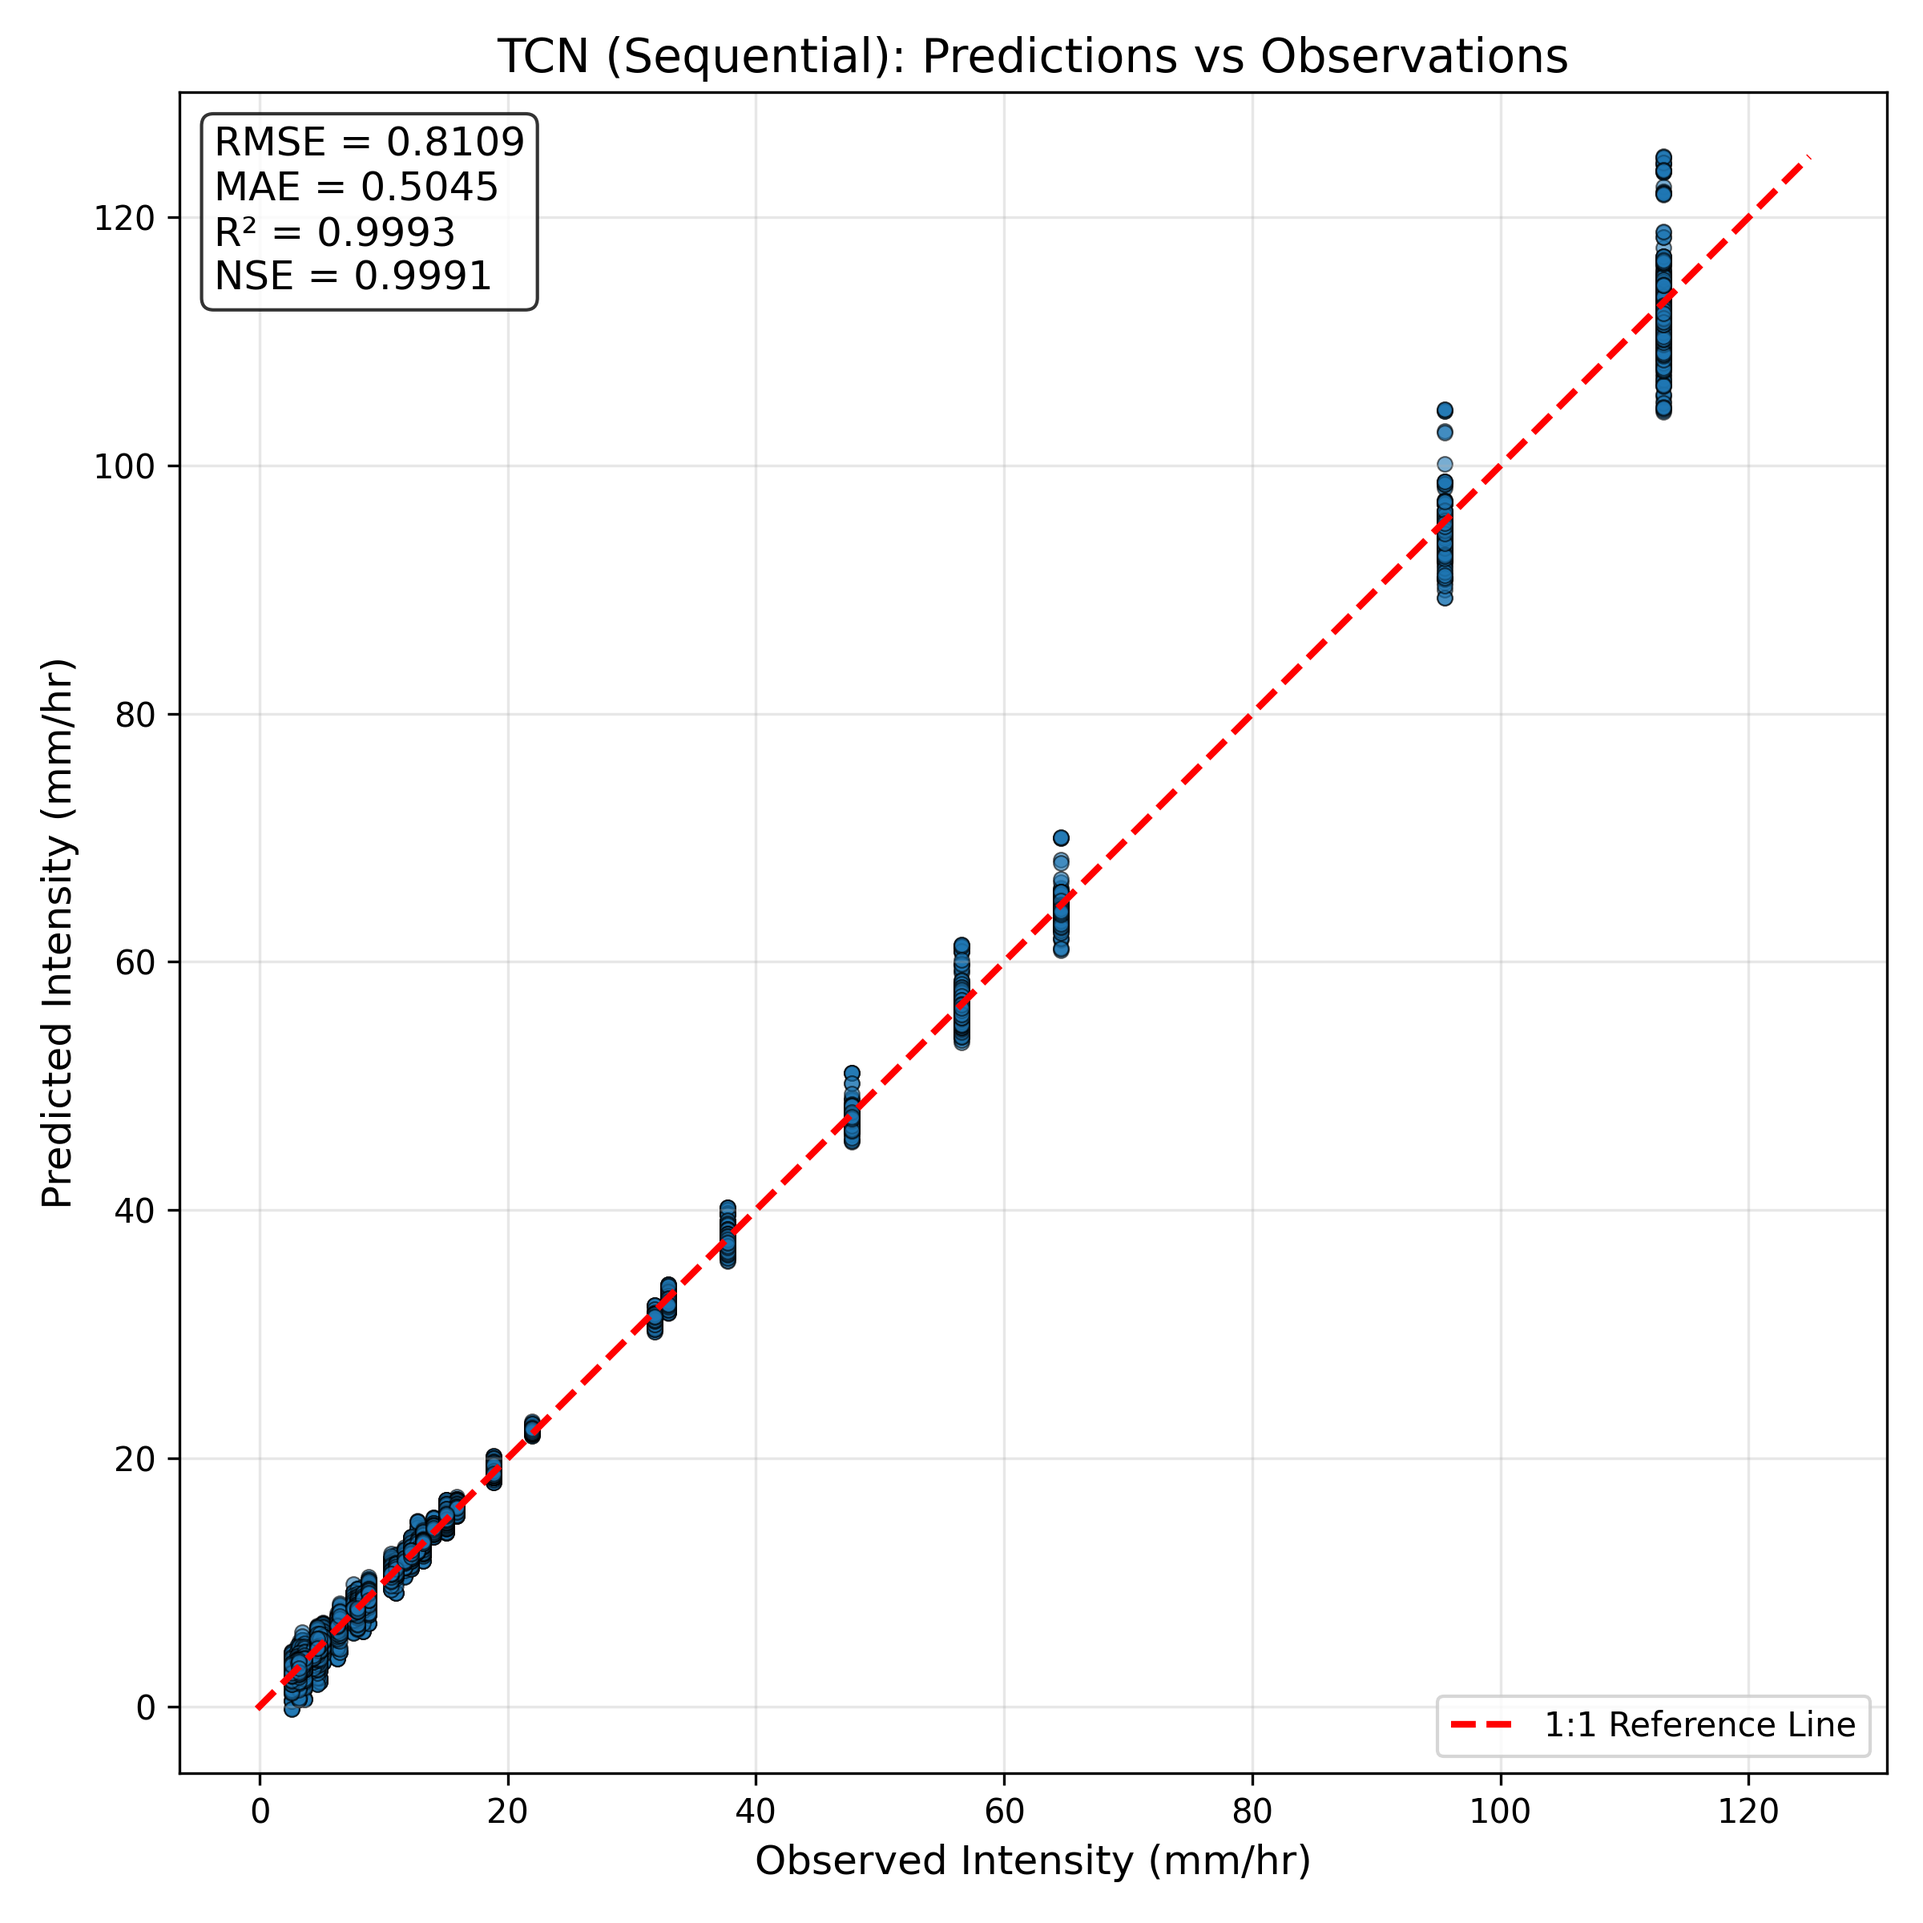
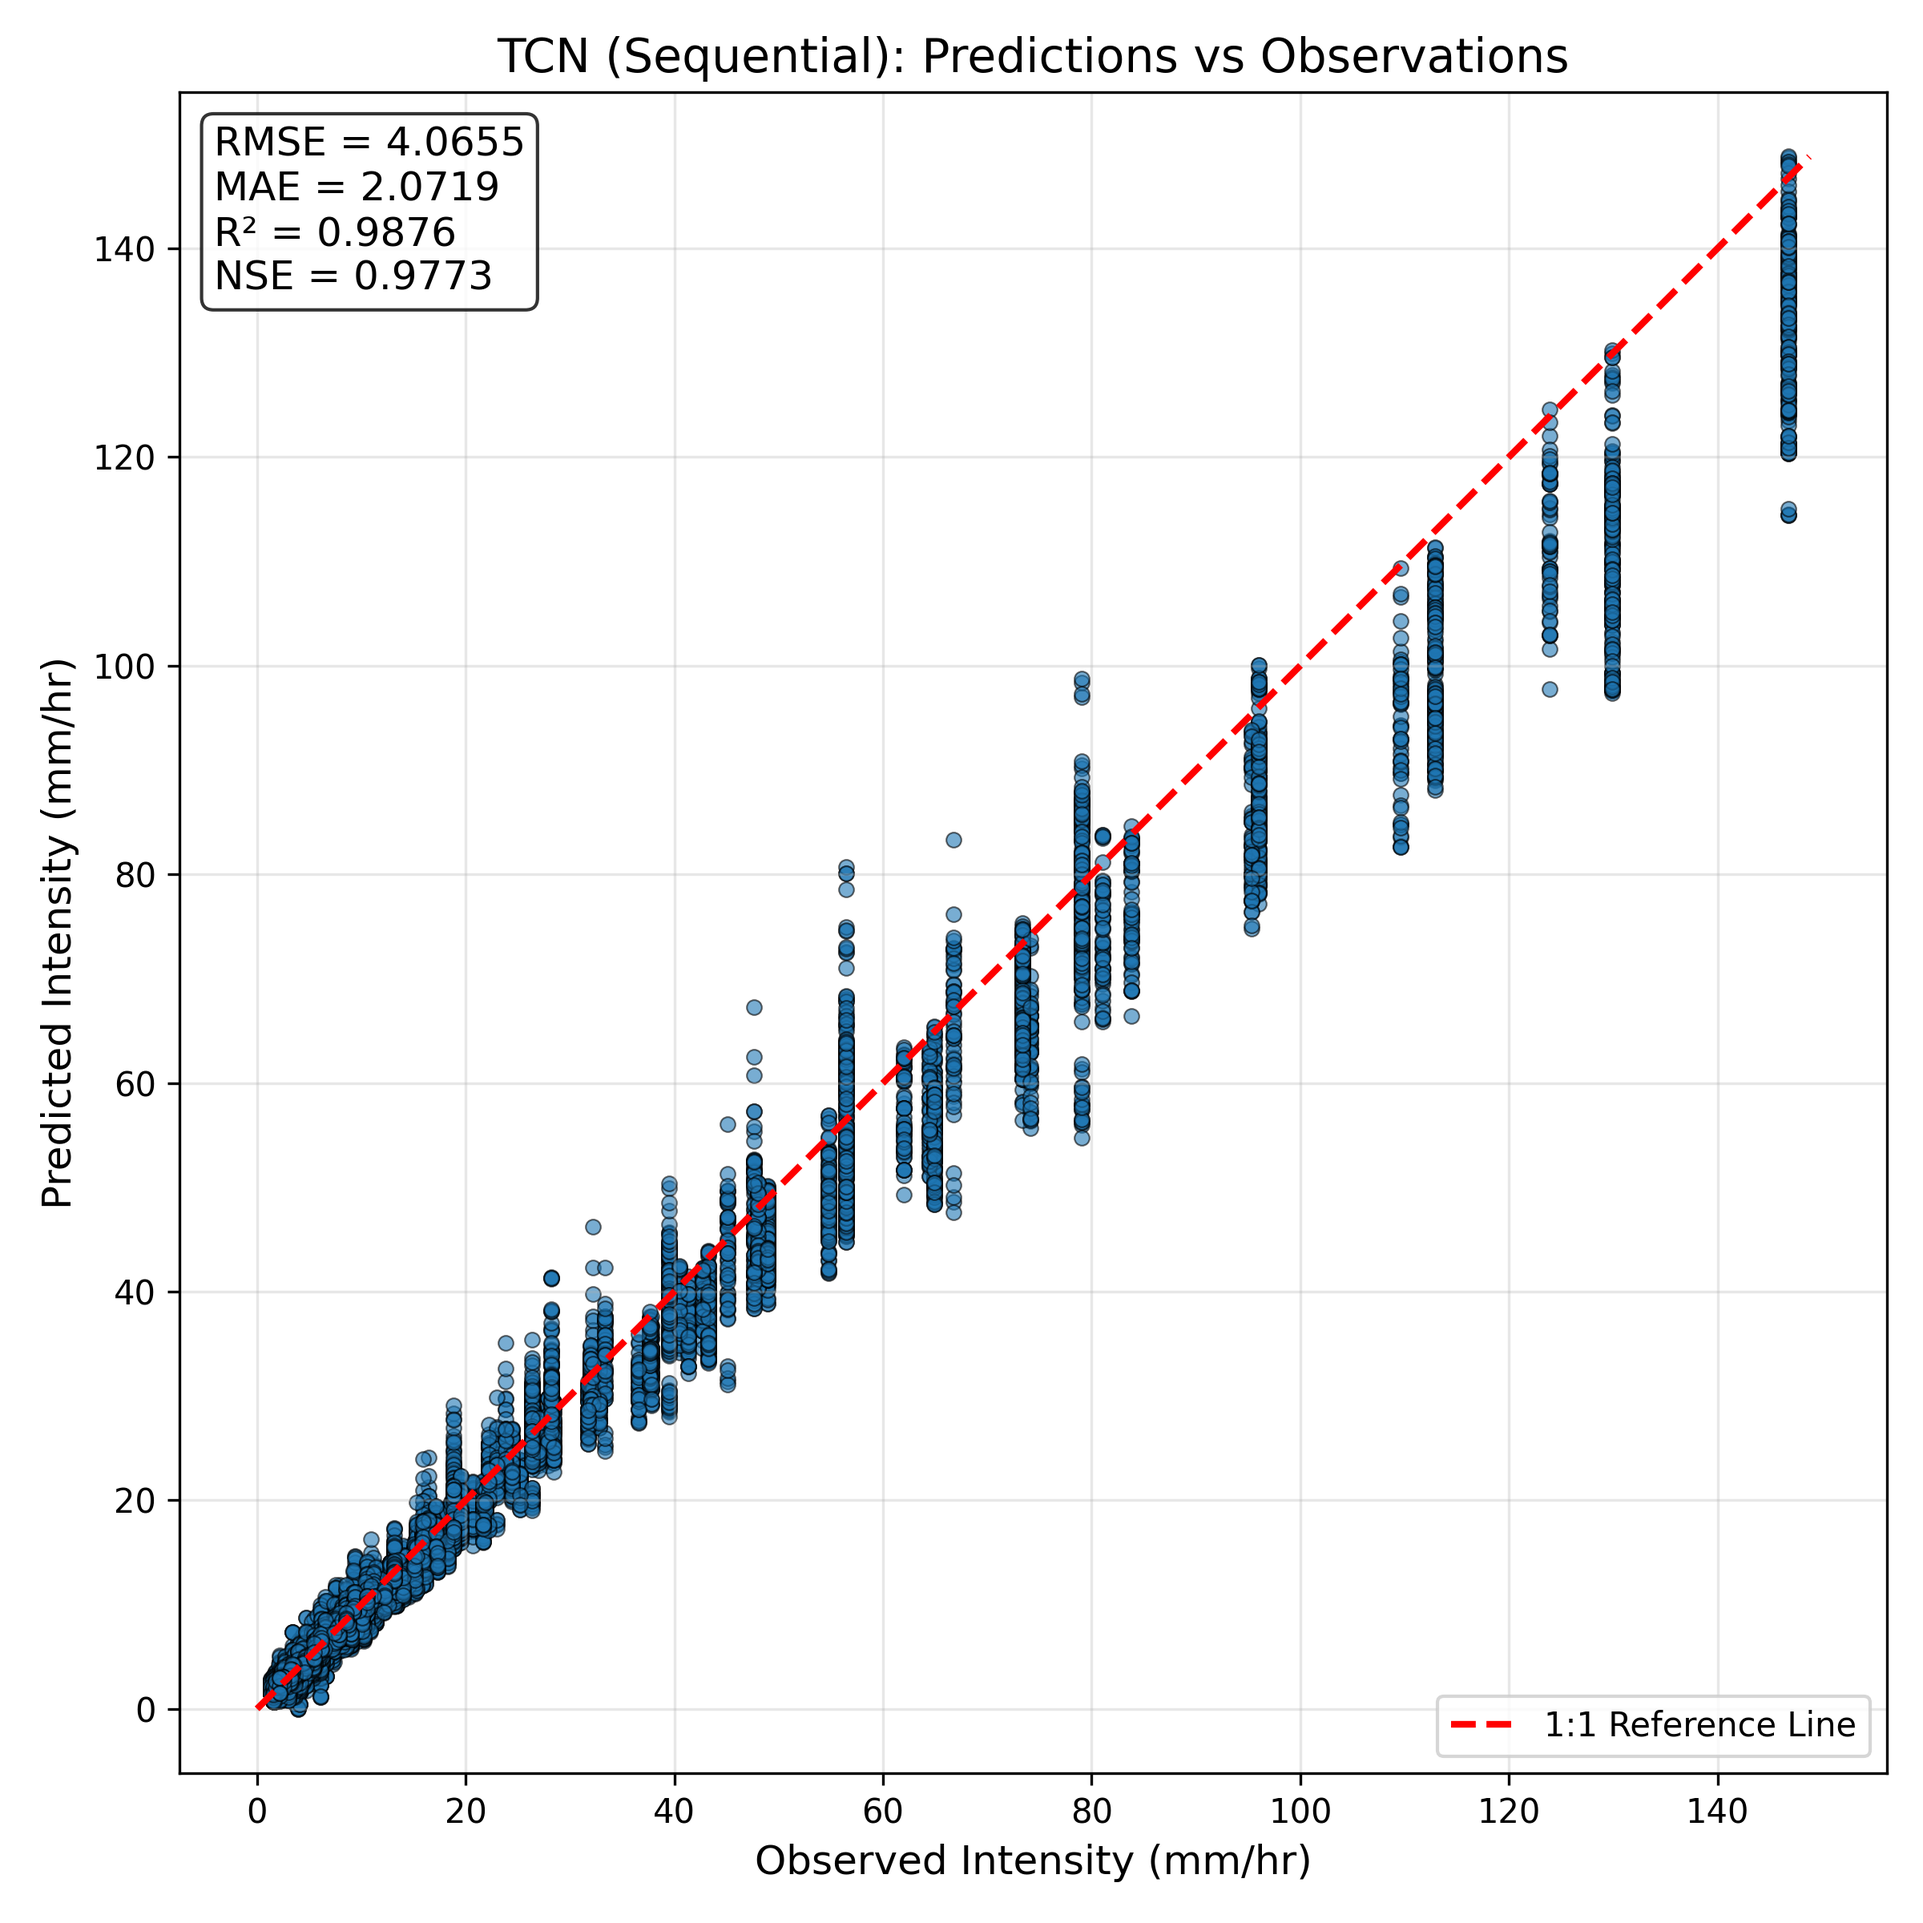
Refactor target generation in SequentialIDFDataset to compute frequency factors instead of absolute intensities, update IDF curve building to accommodate frequency factor predictions, and adjust performance metrics in CSV files accordingly.

diff --git a/ai-training/shared_dataprep_tcn.py b/ai-training/shared_dataprep_tcn.py
@@ -181,11 +181,12 @@ class SequentialIDFDataset(Dataset):
         print(f"✓ Created {len(self.windows):,} windows")
     
     def _generate_targets(self):
-        """Generate empirical return period intensities as targets."""
-        print("Generating targets from empirical return periods...", end=' ')
+        """Generate frequency factors as targets (not absolute intensities)."""
+        print("Generating frequency factor targets...", end=' ')
         
-        # For each duration, compute annual maxima from validation years
-        targets = []
+        # For each duration, compute mean, std, and frequency factors from annual maxima
+        frequency_factors = []
+        self.duration_stats = []  # Store mean and std for later use
         
         for dur_col in self.duration_cols:
             # Get validation data for this duration
@@ -203,6 +204,11 @@ class SequentialIDFDataset(Dataset):
             
             annual_maxima = np.array(annual_maxima)
             
+            # Compute statistics
+            mean_intensity = np.mean(annual_maxima)
+            std_intensity = np.std(annual_maxima)
+            self.duration_stats.append({'mean': mean_intensity, 'std': std_intensity})
+            
             # Rank and compute empirical return periods
             sorted_maxima = np.sort(annual_maxima)[::-1]  # Descending order
             n = len(sorted_maxima)
@@ -213,16 +219,13 @@ class SequentialIDFDataset(Dataset):
             rp_intensities = []
             for rp in self.return_periods:
                 if rp <= empirical_T.max() and rp >= empirical_T.min():
-                    # Interpolate in log-log space for better fit
                     intensity = np.exp(np.interp(np.log(rp), np.log(empirical_T[::-1]), 
                                                   np.log(sorted_maxima[::-1] + 1e-8)))
                 else:
-                    # Extrapolate linearly in log-log space
                     intensity = np.exp(np.interp(np.log(rp), np.log(empirical_T[::-1]), 
                                                   np.log(sorted_maxima[::-1] + 1e-8), 
                                                   left=np.nan, right=np.nan))
                     if np.isnan(intensity):
-                        # Use closest available value
                         if rp < empirical_T.min():
                             intensity = sorted_maxima[-1]
                         else:
@@ -230,40 +233,37 @@ class SequentialIDFDataset(Dataset):
                 
                 rp_intensities.append(intensity)
             
-            targets.append(rp_intensities)
+            # Convert intensities to frequency factors: K = (I - mean) / std
+            K_values = [(I - mean_intensity) / (std_intensity + 1e-8) for I in rp_intensities]
+            frequency_factors.append(K_values)
         
-        # targets is now [13 durations, 6 return periods]
-        self.targets = np.array(targets, dtype=np.float32)  # [13, 6]
+        # targets are now frequency factors [13 durations, 6 return periods]
+        self.targets = np.array(frequency_factors, dtype=np.float32)  # [13, 6]
         
-        # Bin windows by intensity quantiles and scale targets accordingly
-        # Compute max intensity across all durations for each window
+        # Bin windows by intensity quantiles to create variation
         window_max_intensities = np.max(self.windows, axis=(1, 2))  # [N]
         
-        # Create 6 quantile bins (one per return period level)
+        # Create 6 quantile bins
         quantiles = [0, 1/6, 2/6, 3/6, 4/6, 5/6, 1.0]
         intensity_thresholds = np.quantile(window_max_intensities, quantiles)
-        
-        # Assign each window to a bin (0=lowest → 5=highest intensity)
         window_rp_bins = np.digitize(window_max_intensities, intensity_thresholds[1:-1])  # [N]
         
-        # Create varied targets by scaling the base empirical IDF curve
-        # Windows in lower bins get scaled-down targets, higher bins get scaled-up targets
-        # This preserves the monotonic RP ordering while creating variation
+        # Create varied targets by adjusting frequency factors
+        # Higher bins get slightly higher K values (more extreme events)
         self.targets_per_window = np.zeros((len(self.windows), 13, 6), dtype=np.float32)
         
-        # Scale factors for each bin: [0.5, 0.7, 0.85, 1.0, 1.15, 1.3]
-        # These multiply the base empirical targets
-        bin_scale_factors = np.array([0.5, 0.7, 0.85, 1.0, 1.15, 1.3])
+        # Adjustment factors: shift K values based on bin
+        # [0.7, 0.85, 0.95, 1.0, 1.05, 1.15] - multiplicative scaling
+        bin_adjustments = np.array([0.7, 0.85, 0.95, 1.0, 1.05, 1.15])
         
         for i in range(len(self.windows)):
             bin_idx = window_rp_bins[i]
-            scale = bin_scale_factors[bin_idx]
-            # Scale the entire IDF curve uniformly - preserves RP ordering
-            self.targets_per_window[i] = self.targets * scale
+            adjustment = bin_adjustments[bin_idx]
+            # Scale frequency factors - monotonic ordering preserved
+            self.targets_per_window[i] = self.targets * adjustment
         
-        # Count distribution across bins
         bin_counts = np.bincount(window_rp_bins, minlength=6)
-        print(f"✓ Generated targets shape: {self.targets_per_window.shape}")
+        print(f"✓ Generated frequency factor targets shape: {self.targets_per_window.shape}")
         print(f"  Window distribution across RPs {self.return_periods}: {bin_counts}")
     
     def _create_scalers(self):

diff --git a/ai-training/shared_io.py b/ai-training/shared_io.py
@@ -227,35 +227,54 @@ def build_idf_from_direct_predictions(
     standard_durations_minutes,
     return_periods,
     csv_basename,
+    duration_stats=None,
 ):
     """
-    Build IDF curves from direct model predictions (Sequential TCN/TCAN).
+    Build IDF curves from frequency factor predictions (Sequential TCN/TCAN).
     
     Args:
-        predictions: np.array of shape [13, 6] - direct intensity predictions
+        predictions: np.array of shape [13, 6] - frequency factor predictions
         scaler_y: StandardScaler to inverse transform predictions
         standard_durations_minutes: List of 13 duration values
         return_periods: List of 6 return period values [2, 5, 10, 25, 50, 100]
         csv_basename: Output CSV filename
+        duration_stats: List of dicts with 'mean' and 'std' for each duration
     
     Returns:
         dict with idf_df, idf_curves, standard_idf_curves
     """
-    # Inverse transform predictions: [13, 6] -> scaled intensities -> original intensities
+    # Inverse transform frequency factors: [13, 6]
     predictions_flat = predictions.reshape(-1, 1)  # [78, 1]
-    predictions_unscaled = scaler_y.inverse_transform(predictions_flat)  # [78, 1]
-    predictions_unscaled = predictions_unscaled.reshape(13, 6)  # [13, 6]
+    K_factors = scaler_y.inverse_transform(predictions_flat)  # [78, 1]
+    K_factors = K_factors.reshape(13, 6)  # [13, 6]
     
-    # No frequency factors - predictions ARE the intensities
-    # predictions are already in mm/hr
+    # Convert frequency factors to intensities: intensity = mean + K * std
+    intensities_matrix = np.zeros((13, 6), dtype=np.float32)
+    
+    if duration_stats is not None:
+        for dur_idx in range(13):
+            mean_intensity = duration_stats[dur_idx]['mean']
+            std_intensity = duration_stats[dur_idx]['std']
+            for rp_idx in range(6):
+                K_val = K_factors[dur_idx, rp_idx]
+                intensities_matrix[dur_idx, rp_idx] = mean_intensity + K_val * std_intensity
+    else:
+        # Fallback: treat as intensities directly
+        intensities_matrix = K_factors
+    
+    # Ensure monotonic ordering: higher RP should have higher intensity
+    for dur_idx in range(13):
+        for rp_idx in range(1, 6):
+            if intensities_matrix[dur_idx, rp_idx] < intensities_matrix[dur_idx, rp_idx - 1]:
+                # Force monotonic increase
+                intensities_matrix[dur_idx, rp_idx] = intensities_matrix[dur_idx, rp_idx - 1] * 1.01
     
     # Build IDF curves dictionary: {return_period: [13 intensities]}
     idf_curves = {}
     standard_idf_curves = {}
     
     for rp_idx, rp in enumerate(return_periods):
-        # Extract intensities for this return period across all durations
-        intensities = predictions_unscaled[:, rp_idx]  # [13]
+        intensities = intensities_matrix[:, rp_idx]  # [13]
         idf_curves[rp] = intensities
         standard_idf_curves[rp] = intensities.tolist()
     

diff --git a/ai-training/tcan_sequential.py b/ai-training/tcan_sequential.py
@@ -241,7 +241,8 @@ idf_artifacts = build_idf_from_direct_predictions(
     train_dataset_final.scaler_y,
     standard_durations_minutes,
     return_periods,
-    "idf_curves_TCAN.csv"
+    "idf_curves_TCAN.csv",
+    duration_stats=train_dataset_final.duration_stats
 )
 
 standard_idf_curves = idf_artifacts["standard_idf_curves"]

diff --git a/ai-training/tcn_sequential.py b/ai-training/tcn_sequential.py
@@ -239,7 +239,8 @@ idf_artifacts = build_idf_from_direct_predictions(
     train_dataset_final.scaler_y,
     standard_durations_minutes,
     return_periods,
-    "idf_curves_TCN.csv"
+    "idf_curves_TCN.csv",
+    duration_stats=train_dataset_final.duration_stats
 )
 
 standard_idf_curves = idf_artifacts["standard_idf_curves"]
